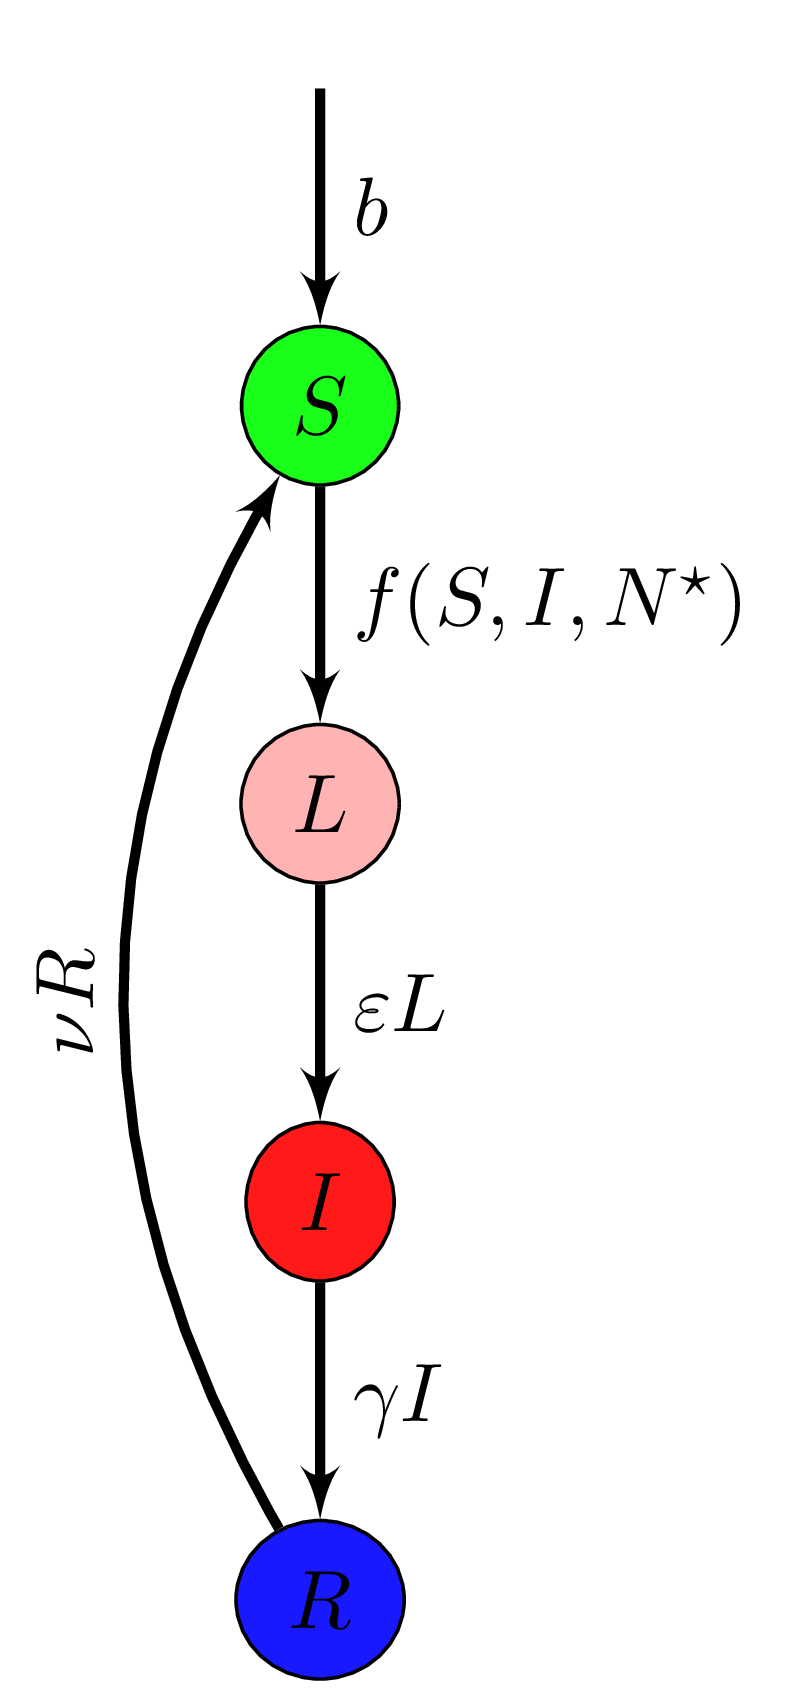
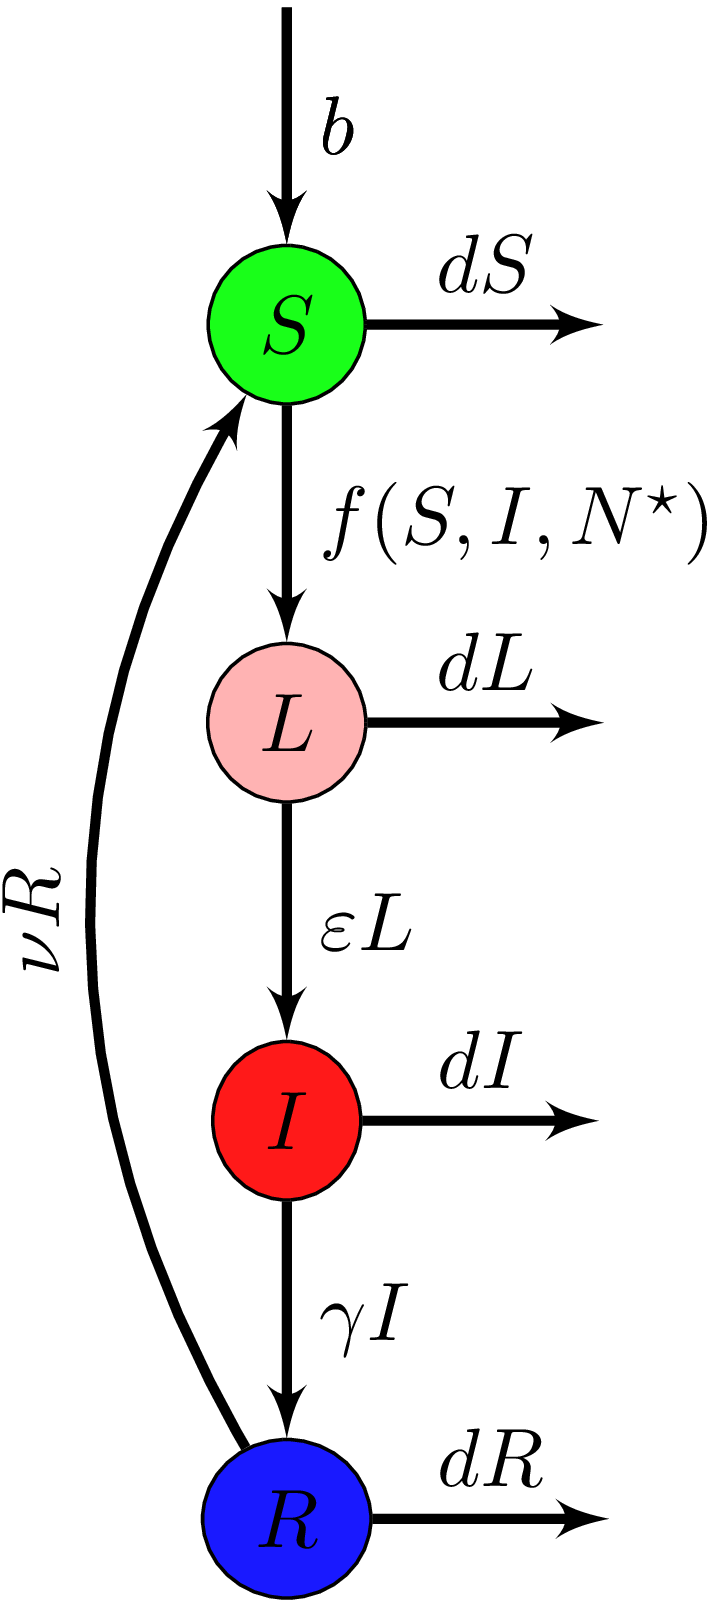
Update

diff --git a/FIGS/SLIRS_constantbirth_incidenceNstar_vertical.tex b/FIGS/SLIRS_constantbirth_incidenceNstar_vertical.tex
@@ -18,15 +18,25 @@ minimum height=2em]
 	cloud/.style={minimum width={width("N-1")+2pt},
 		draw, ellipse,fill=gray!20}]
     \node [cloud, fill=green!90] (S) {$S$};
-    \node [cloud, above=of S, draw=none, fill=white] (b) {}; 
     \node [cloud, below=of S, fill=red!30] (L) {$L$};
 	\node [cloud, below=of L, fill=red!90] (I) {$I$};
 	\node [cloud, below=of I, fill=blue!90] (R) {$R$};
+    \node [cloud, above=of S, draw=none, fill=white] (b) {}; 
+    \node [cloud, right=of S, draw=none, fill=white] (dS) {}; 
+    \node [cloud, right=of L, draw=none, fill=white] (dL) {}; 
+    \node [cloud, right=of I, draw=none, fill=white] (dI) {}; 
+    \node [cloud, right=of R, draw=none, fill=white] (dR) {}; 
 	%% Arrows
     \path [line, very thick] (b) to node [midway, right] (TextNode) {$b$} (S);
 	\path [line, very thick] (S) to node [midway, right] (TextNode) {$f(S,I,N^\star)$} (L);
 	\path [line, very thick] (L) to node [midway, right] (TextNode) {$\varepsilon L$} (I);
 	\path [line, very thick] (I) to node [midway, right] (TextNode) {$\gamma I$} (R);
     \path [line, very thick, bend left] (R) to node [midway, above, sloped] (TextNode) {$\nu R$} (S);
+	%% Birth and death
+	\path [line, very thick] (b) to node [midway, right] (TextNode) {$b$} (S);
+    \path [line, very thick] (S) to node [midway, above] (TextNode) {$dS$} (dS);
+    \path [line, very thick] (L) to node [midway, above] (TextNode) {$dL$} (dL);
+    \path [line, very thick] (I) to node [midway, above] (TextNode) {$dI$} (dI);
+    \path [line, very thick] (R) to node [midway, above] (TextNode) {$dR$} (dR);
 \end{tikzpicture}
 \end{document}

diff --git a/FIGS/SLIRS_constantbirth_vertical.tex b/FIGS/SLIRS_constantbirth_vertical.tex
@@ -22,11 +22,21 @@ minimum height=2em]
     \node [cloud, below=of S, fill=red!30] (L) {$L$};
 	\node [cloud, below=of L, fill=red!90] (I) {$I$};
 	\node [cloud, below=of I, fill=blue!90] (R) {$R$};
+    \node [cloud, above=of S, draw=none, fill=white] (b) {};
+    \node [cloud, right=of S, draw=none, fill=white] (dS) {}; 
+    \node [cloud, right=of L, draw=none, fill=white] (dL) {}; 
+    \node [cloud, right=of I, draw=none, fill=white] (dI) {}; 
+    \node [cloud, right=of R, draw=none, fill=white] (dR) {}; 
 	%% Arrows
-    \path [line, very thick] (b) to node [midway, right] (TextNode) {$b$} (S);
 	\path [line, very thick] (S) to node [midway, right] (TextNode) {$f(S,I,N)$} (L);
 	\path [line, very thick] (L) to node [midway, right] (TextNode) {$\varepsilon L$} (I);
 	\path [line, very thick] (I) to node [midway, right] (TextNode) {$\gamma I$} (R);
     \path [line, very thick, bend left] (R) to node [midway, above, sloped] (TextNode) {$\nu R$} (S);
+	%% Birth and death
+	\path [line, very thick] (b) to node [midway, right] (TextNode) {$b$} (S);
+    \path [line, very thick] (S) to node [midway, above] (TextNode) {$dS$} (dS);
+    \path [line, very thick] (L) to node [midway, above] (TextNode) {$dL$} (dL);
+    \path [line, very thick] (I) to node [midway, above] (TextNode) {$dI$} (dI);
+    \path [line, very thick] (R) to node [midway, above] (TextNode) {$dR$} (dR);
 \end{tikzpicture}
 \end{document}
